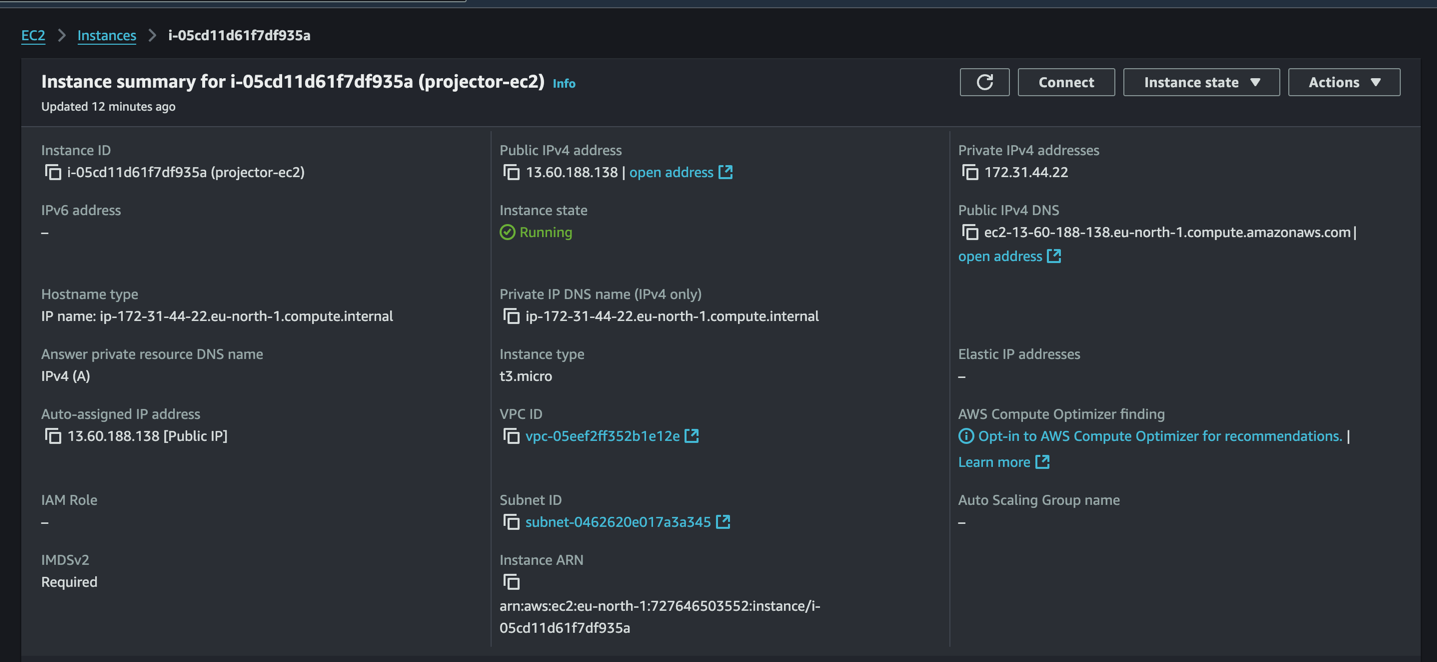
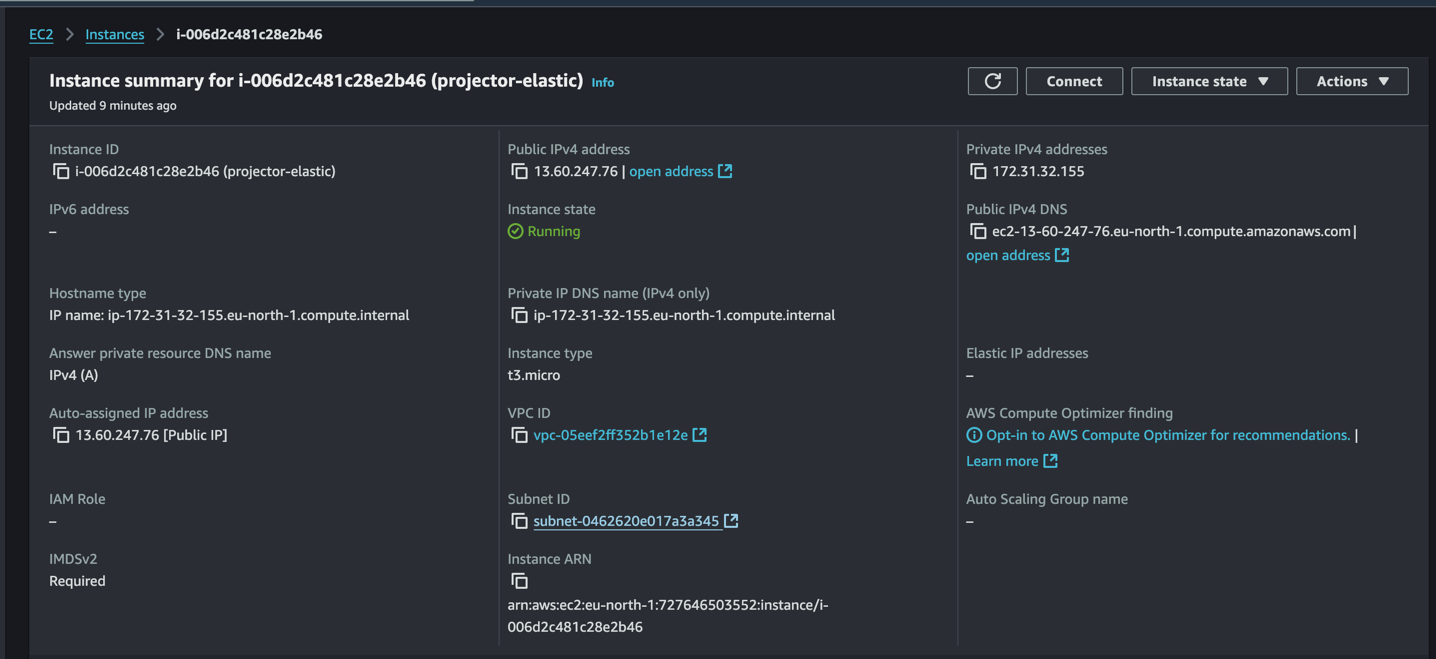
finished task

diff --git a/README.MD b/README.MD
@@ -381,3 +381,98 @@ curl -X GET "localhost:9200/autocomplete_index/_search?pretty" -H 'Content-Type:
 }
 ```
 
+# Deploy to EC2 Instance with CI/CD github actions
+
+## 1. Create a new EC2 instance
+
+![1.png](images/1.png)
+
+## 2. Create secret keys in the repository settings
+
+![2.png](images/2.png)
+
+## 3. Create a new file in the repository with the name .github/workflows/ci-cd.yml
+
+```yaml
+name: CI/CD Pipeline for Elasticsearch
+
+on: push
+
+jobs:
+  build-and-load:
+    runs-on: ubuntu-latest
+
+    services:
+      elasticsearch:
+        image: docker.elastic.co/elasticsearch/elasticsearch:7.17.10
+        ports:
+          - 9200:9200
+        options: >-
+          --health-cmd="curl -f http://localhost:9200/_cluster/health || exit 1"
+          --health-interval=5s
+          --health-timeout=10s
+          --health-retries=12
+        env:
+          discovery.type: single-node
+          ES_JAVA_OPTS: "-Xms256m -Xmx256m"
+
+    steps:
+      - name: Checkout Code
+        uses: actions/checkout@v3
+
+      - name: Set up Python
+        uses: actions/setup-python@v3
+        with:
+          python-version: '3.8'
+
+      - name: Install Dependencies
+        run: |
+          python -m pip install --upgrade pip
+          pip install elasticsearch
+
+      - name: Verify Elasticsearch Health
+        run: |
+          curl -X GET "http://localhost:9200/_cluster/health?pretty"
+
+      - name: Load Data into Elasticsearch
+        run: |
+          python WordsGenerator.py
+
+  deploy:
+    needs: build-and-load
+    runs-on: ubuntu-latest
+
+    steps:
+      - name: Checkout Code
+        uses: actions/checkout@v3
+
+      - name: Install SSH Key
+        run: |
+          mkdir -p ~/.ssh
+          echo "${{ secrets.SSH_PRIVATE_KEY }}" > ~/.ssh/id_rsa
+          chmod 600 ~/.ssh/id_rsa
+
+      - name: Deploy Code to EC2
+        env:
+          HOST: ${{ secrets.EC2_HOST }}
+          USER: ${{ secrets.EC2_USER }}
+          APP_PATH: ${{ secrets.APP_PATH }}
+        run: |
+          ssh -o StrictHostKeyChecking=no $USER@$HOST "mkdir -p $APP_PATH"
+          scp -o StrictHostKeyChecking=no -r * $USER@$HOST:$APP_PATH
+          ssh -o StrictHostKeyChecking=no $USER@$HOST "cd $APP_PATH && sudo systemctl restart projector_elastic.service"
+```
+
+## 4. CI/CD Pipeline
+
+https://github.com/linnykoleh/elastic-search-demo/actions
+
+![3.png](images/3.png)
+
+![5.png](images/5.png)
+
+![6.png](images/6.png)
+
+## 5. Deployed to EC2 Instance
+
+![4.png](images/4.png)
